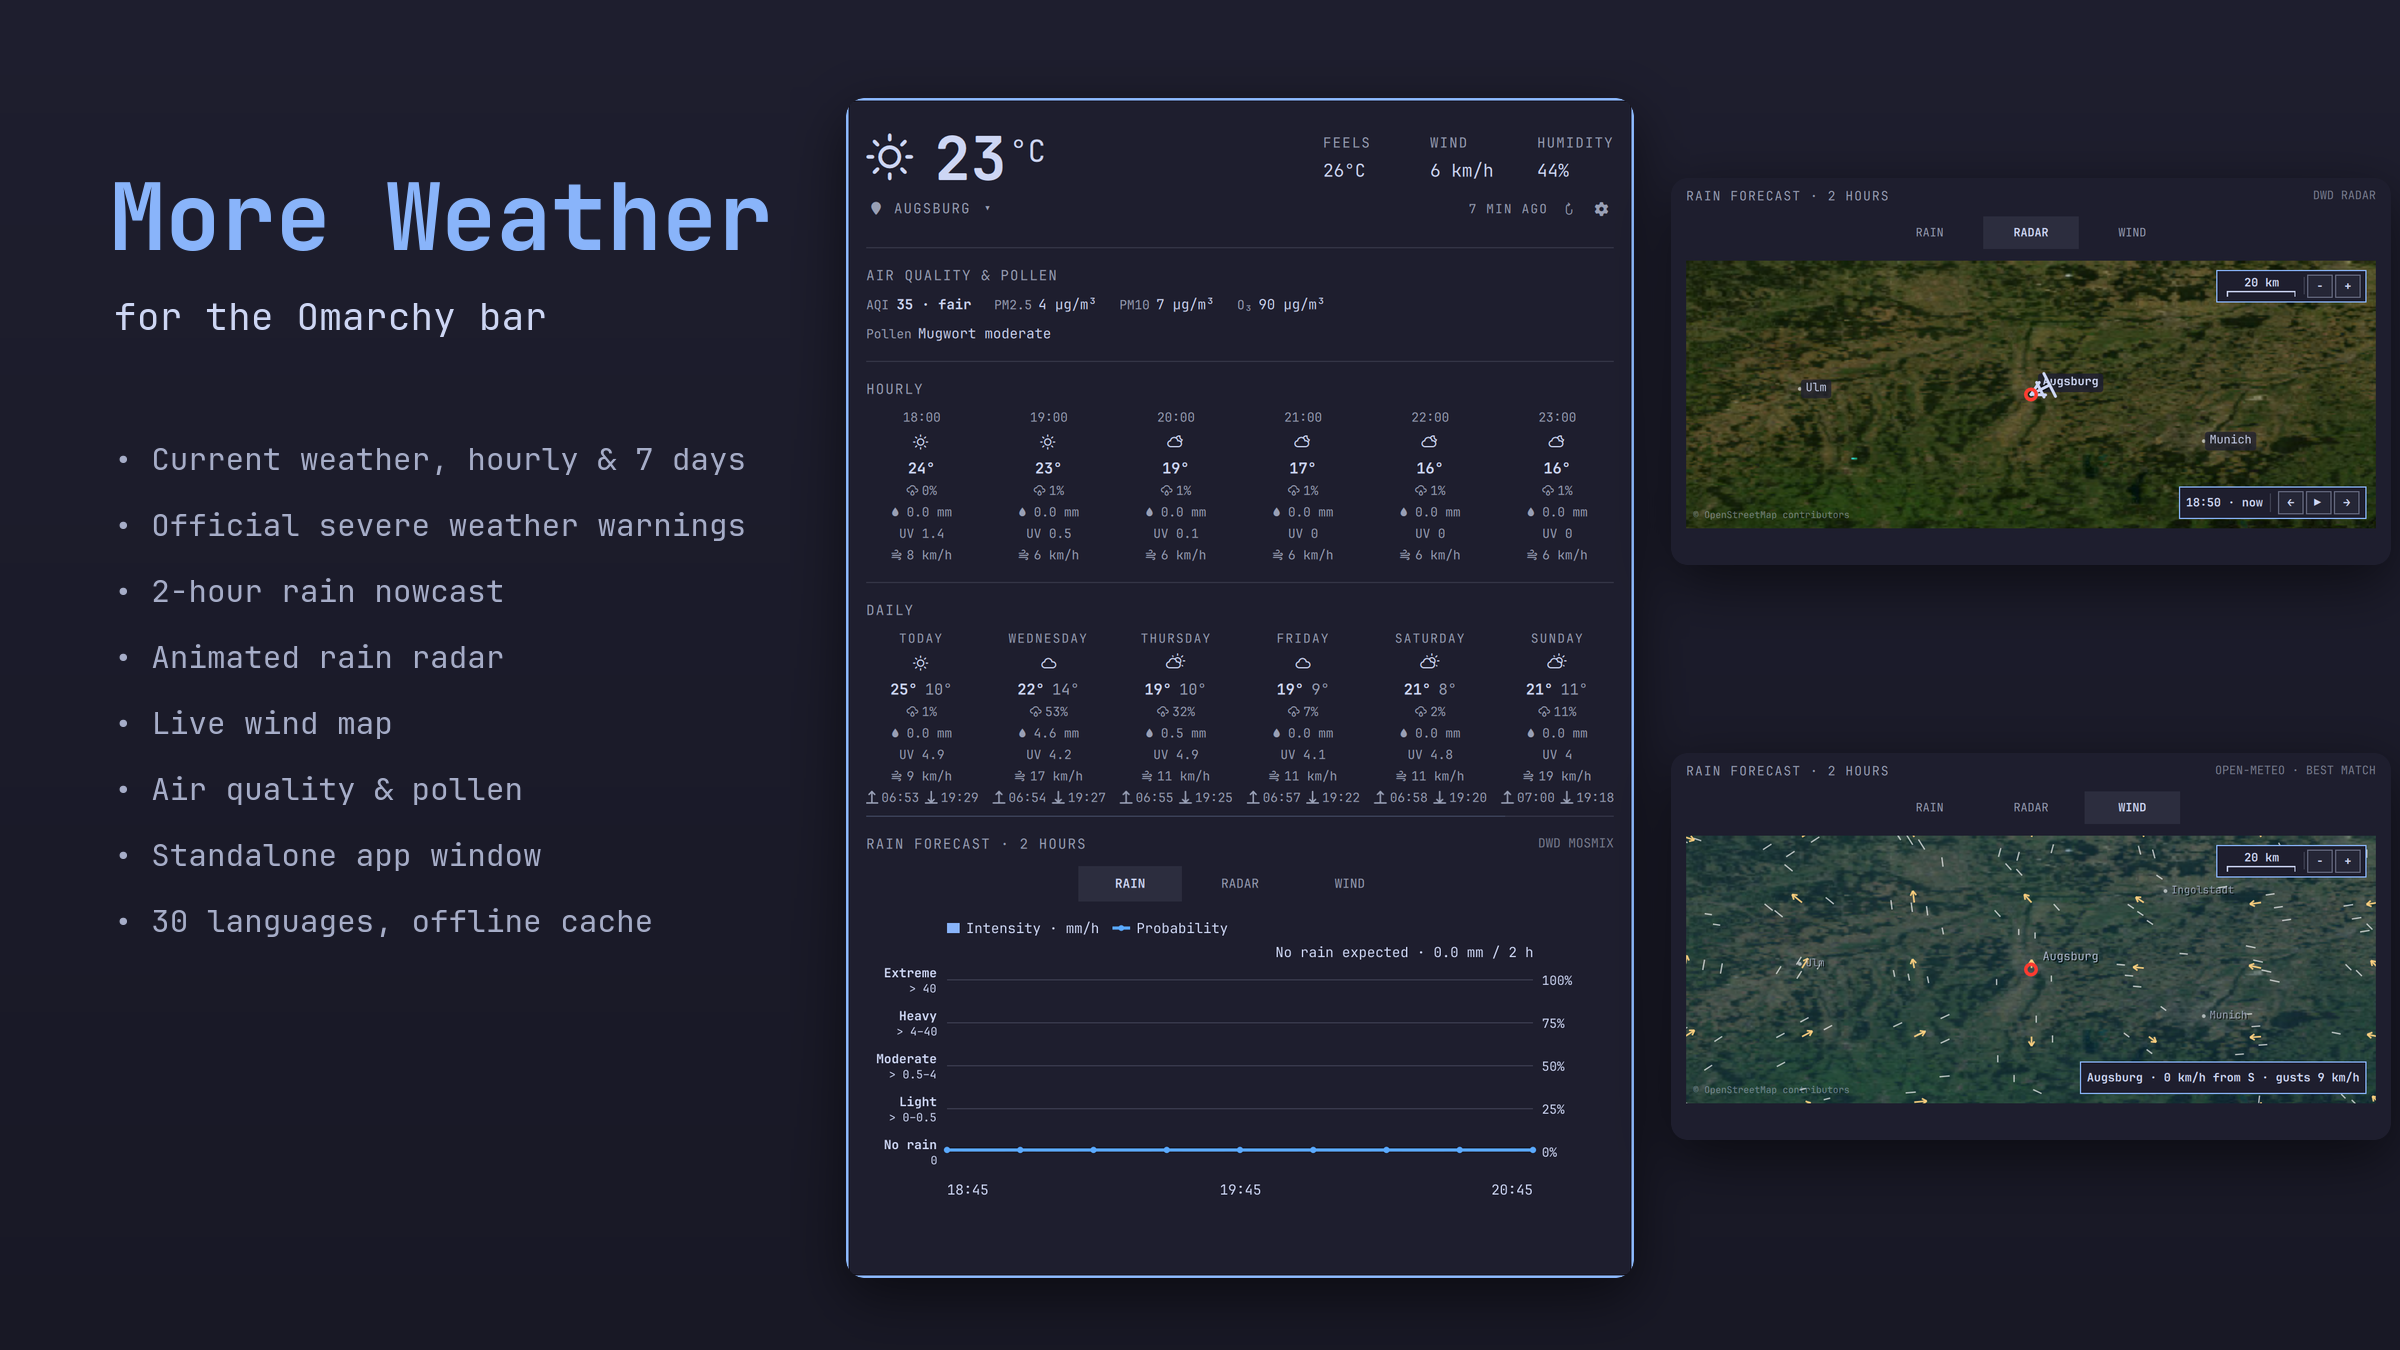
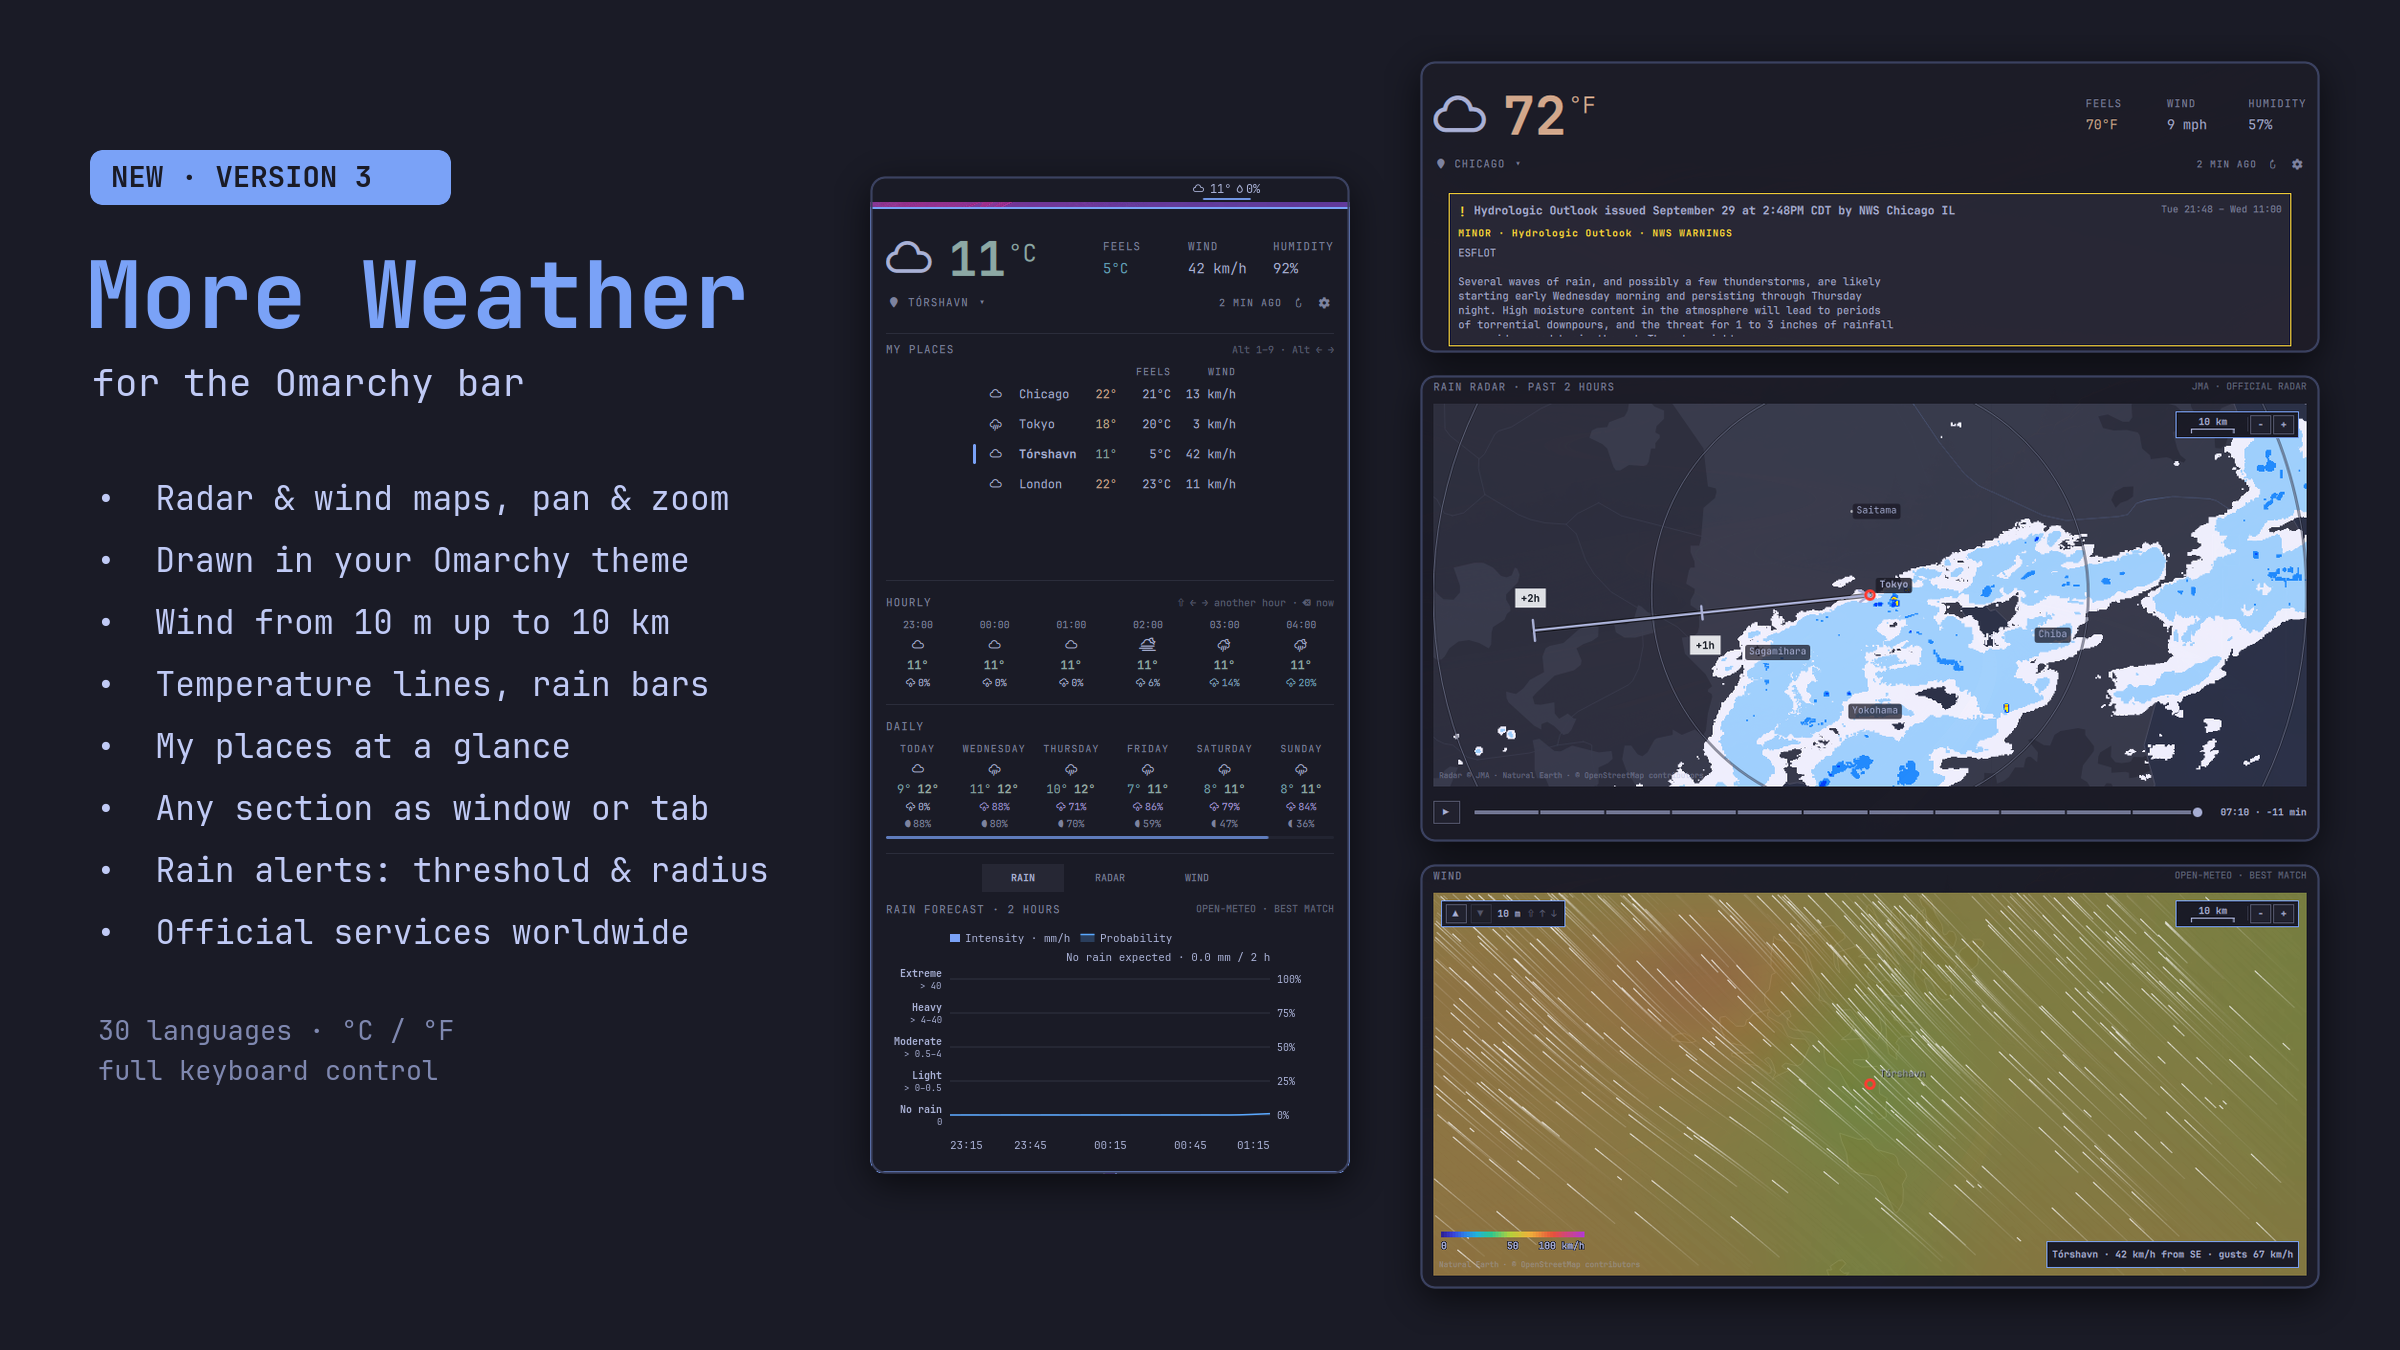
More Weather 3.0.0
New preview for the Omarchy plugin page and new screenshots (Chicago in °F,
Tokyo with JMA radar, Tórshavn with the wind map, the menu bar with the
widget, the settings); manifest, README and CHANGELOG for version 3.

Claude-Session: https://claude.ai/code/session_01CSawbv3qbJNT5fZmeHTxMJ

diff --git a/README.md b/README.md
@@ -1,9 +1,10 @@
 # More Weather
 
 A detailed weather plugin for the [Omarchy](https://omarchy.org) bar, with official
-severe weather warnings, a two-hour rain nowcast, an animated rain radar, a live
-wind map, air quality and pollen. The same view also runs as a standalone app
-window.
+severe weather warnings from national weather services, a two-hour rain nowcast, a rain
+radar and a wind map drawn in your theme that you can move and zoom, temperature lines,
+rain alerts, air quality and pollen, and all your places at a glance. The same view also
+runs as a standalone app window.
 
 ![More Weather](preview.png)
 
@@ -105,13 +106,13 @@ window.
   Settings → Shortcuts, and the settings name their keys where they apply.
 - **Settings → Sources** shows which service is serving each kind of data right now.
 
-| Overview | Radar | Wind |
+| Chicago in °F, with an NWS warning | Tokyo in the rain, JMA radar | Tórshavn in a gale, wind map |
 |---|---|---|
-| ![Overview](screenshots/overview.png) | ![Radar](screenshots/radar.png) | ![Wind](screenshots/wind.png) |
+| ![Chicago](screenshots/chicago.png) | ![Tokyo radar](screenshots/tokyo-radar.png) | ![Tórshavn wind](screenshots/torshavn-wind.png) |
 
-| Display settings | Data sources |
-|---|---|
-| ![Settings](screenshots/settings.png) | ![Sources](screenshots/sources.png) |
+| Menu bar and widget | Settings | Data sources |
+|---|---|---|
+| ![Menu bar and widget](screenshots/menubar-widget.png) | ![Settings](screenshots/settings.png) | ![Sources](screenshots/sources.png) |
 
 ## Data sources
 
